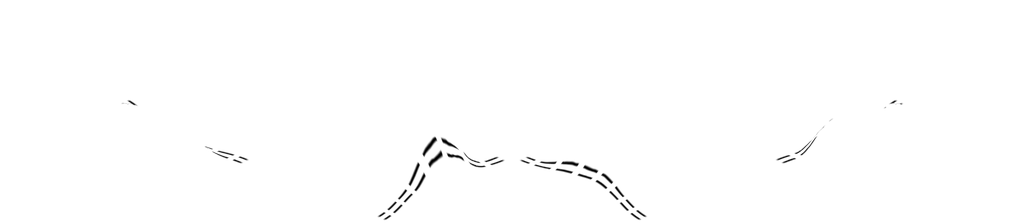
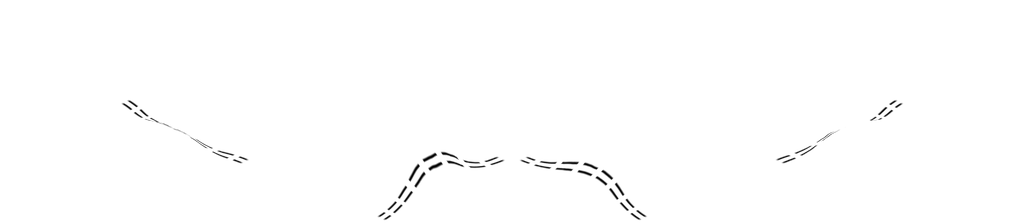
rebuilt terrain art

diff --git a/open-4x/art/forge/relief.py b/open-4x/art/forge/relief.py
@@ -170,14 +170,14 @@ HILL_STYLES = {
         snow=2.0,
     ),
     "arid": dict(
-        cover=[(0, "#74663a"), (0.5, "#92804a"), (1.0, "#b4a068")],
-        dry=[(0, "#86724a"), (1.0, "#c0aa80")],
+        cover=[(0, "#9a8e6c"), (0.5, "#b4a986"), (1.0, "#cdc4a2")],
+        dry=[(0, "#a6976e"), (1.0, "#cec29e")],
         rock=[(0, "#7a5e44"), (1.0, "#b8996e")],
         snow=2.0,
     ),
     "arctic": dict(
-        cover=[(0, "#5a6450"), (0.5, "#7a8670"), (1.0, "#a2ad96")],
-        dry=[(0, "#6e7866"), (1.0, "#a8b2a0")],
+        cover=[(0, "#7e8274"), (0.5, "#9a9c8c"), (1.0, "#b6b8a9")],
+        dry=[(0, "#8a8a7a"), (1.0, "#b2b2a2")],
         rock=[(0, "#585e66"), (1.0, "#a0a8b0")],
         snow=0.45,
     ),
@@ -223,7 +223,8 @@ def shade_hills(h, u, v, seed=21, style="temperate"):
     snow_col = P.mix(P.hx("#a9b6c6"), P.hx("#e6e8e2"), np.clip(lam * 1.15, 0, 1))
     col = P.mix(col, snow_col / np.maximum(lit[..., None], 0.35) * 0.95, snow)
     col = col * (lit * (1.0 - 0.18 * ao))[..., None] * 1.05
-    alpha = smoothstep(1.0, 5.0, h + 2.0 * n2)
+    # a long feathered skirt: the lower slopes thin out so the ground's own texture shows through
+    alpha = smoothstep(0.5, 9.0, h + 2.0 * n2)
     return np.clip(col, 0, 1), alpha
 
 
